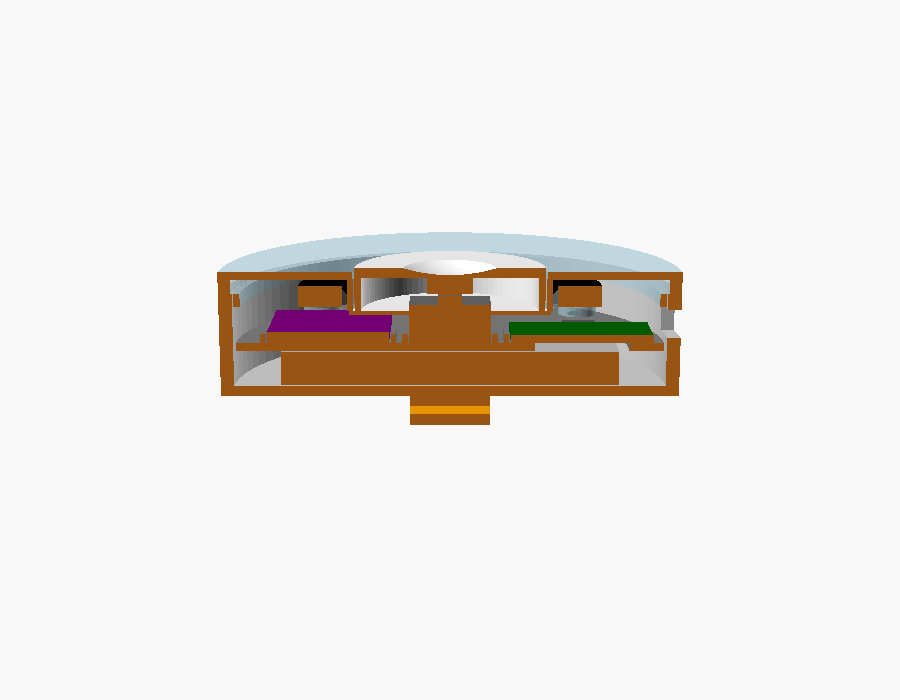
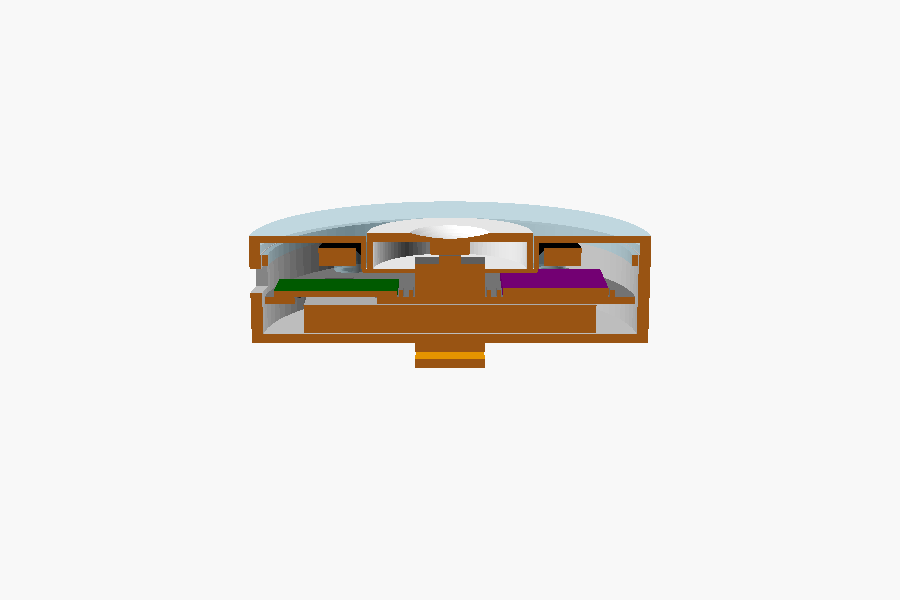
Halo: fit the PJ30920-D pre-wired panel jack under the ring, move bosses off the battery corners
Claude-Session: https://claude.ai/code/session_011QwK4fix7WnZaHcaYfiLaE

Changed region(s): [[0.2178, 0.33, 0.7778, 0.63]]

diff --git a/hardware/README.md b/hardware/README.md
@@ -31,6 +31,7 @@ for p in base lid window; do openscad -D "part=\"$p\"" -o "dial-$p.stl" dial.sca
 
 ![Halo assembly](previews/halo-assembly.png)
 ![Halo section](previews/halo-section.png)
+![Halo top, lid off](previews/halo-top.png)
 
 Ø 68 × 19 mm. Six printed parts:
 
@@ -43,19 +44,21 @@ for p in base lid window; do openscad -D "part=\"$p\"" -o "dial-$p.stl" dial.sca
 | `cap` | white or clear | top face down | Ø 28 floating button with a flange under the collar. Rendered already flipped. |
 | `clip` | **PETG** | arm up | Pocket clip caught under the two rear floor screws. Optional: `with_clip`. |
 
-Lanyard: a tab with a Ø 3.4 mm tangential hole at 12 o'clock, next to the
-jack, so the puck hangs face out. Optional: `with_lanyard`.
+Lanyard: a tab with a Ø 3.4 mm tangential hole at 12 o'clock, directly below
+the jack and flush with the floor, so the puck hangs face out with the cable
+going up. Optional: `with_lanyard`.
 
 How it goes together, bottom to top:
 
 1. Melt four M3 inserts into the **lid posts** (they face down).
 2. Battery into the base, foam tape underneath, leads toward the centre notch.
-3. Solder the DAC to the XIAO (BCK, LCK, DIN, 3V3, GND; SCK to GND), the
+3. Solder the DAC to the XIAO (BCK, LCK, DIN, GND; SCK to GND; DAC VIN to the battery rail, not 3V3), the
    switch to a GPIO, the ring to BAT+, GND and a GPIO through 300 Ω, the
    battery to the XIAO's BAT pads through the slide switch, and the panel
    jack to the DAC's L, R and GND pads. Drop the boards and switch onto the tray.
 4. Tray onto the bosses, USB-C through the wall slot. Screw the panel jack
-   into the wall; glue the slide switch between its two posts.
+   into the wall with its lugs turned sideways (they end beside the switch);
+   glue the slide switch between its two posts.
 5. Ring onto the four ribs under the lid. Cap into the collar from below,
    flange first. Lower the lid; the posts land on the tray.
 6. Four M3 × 14 screws up from underneath. The clip plate goes under the two

diff --git a/pucks/PARTS.md b/pucks/PARTS.md
@@ -23,7 +23,7 @@ USB power for the bench. No battery needed to prove sync and the LED.
 |---|---|---|---|---|
 | 1 | Seeed XIAO ESP32-S3 | 1 | $7.50 | Tiny, USB-C, LiPo charger on board, battery pads on the back |
 | 2 | PCM5102A DAC module | 1 | $4 | Line-level out drives earbuds directly. Its on-board jack is not used; the version without a jack is fine |
-| 2b | Panel-mount 3.5 mm stereo jack, M6 thread | 1 | $0.60 | Mounts in the shell wall, wired to the DAC's L/R/GND pads. Cable yanks pull on the shell, not the PCB |
+| 2b | Panel-mount 3.5 mm stereo jack, pre-wired (Lsgoodcare PJ30920-D, M6 thread, Ø 8 × 11.8 mm body) | 1 | $2 | Mounts in the shell wall, wires to the DAC's L/R/GND pads. The Halo model is drawn around this exact jack |
 | 3 | 3.7 V 1000 mAh LiPo, JST-PH 2.0 lead | 1 | $5 | 6 to 8 h; the 053450 cell you have is this size |
 | 4 | WS2812 16-pixel ring (44.5 mm OD) | 1 | $4 | The Halo shell is built around this ring; you have one for the first puck |
 | 5 | 12 × 12 × 7.3 mm tactile switch | 1 | $0.30 | Under the printed Ø 28 cap |
@@ -67,7 +67,7 @@ some batches ship with the bridges already made.
 
 ```
 PCM5102A        XIAO ESP32-S3
-  VIN  ───────── 3V3
+  VIN  ───────── BAT+ (3.7 to 4.2 V; the module has its own 3.3 V regulator, so give it headroom)
   GND  ───────── GND
   SCK  ───────── GND
   BCK  ───────── D8  (I2S bit clock)
